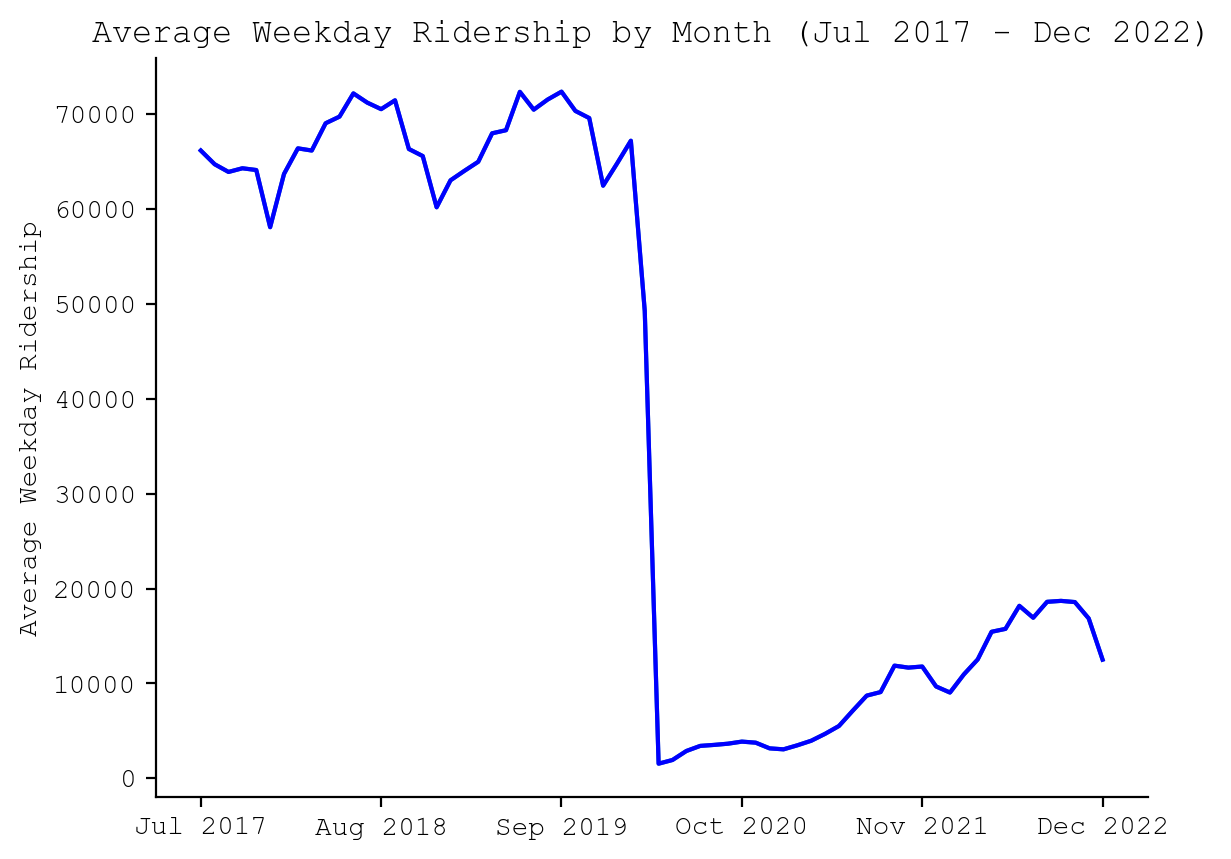
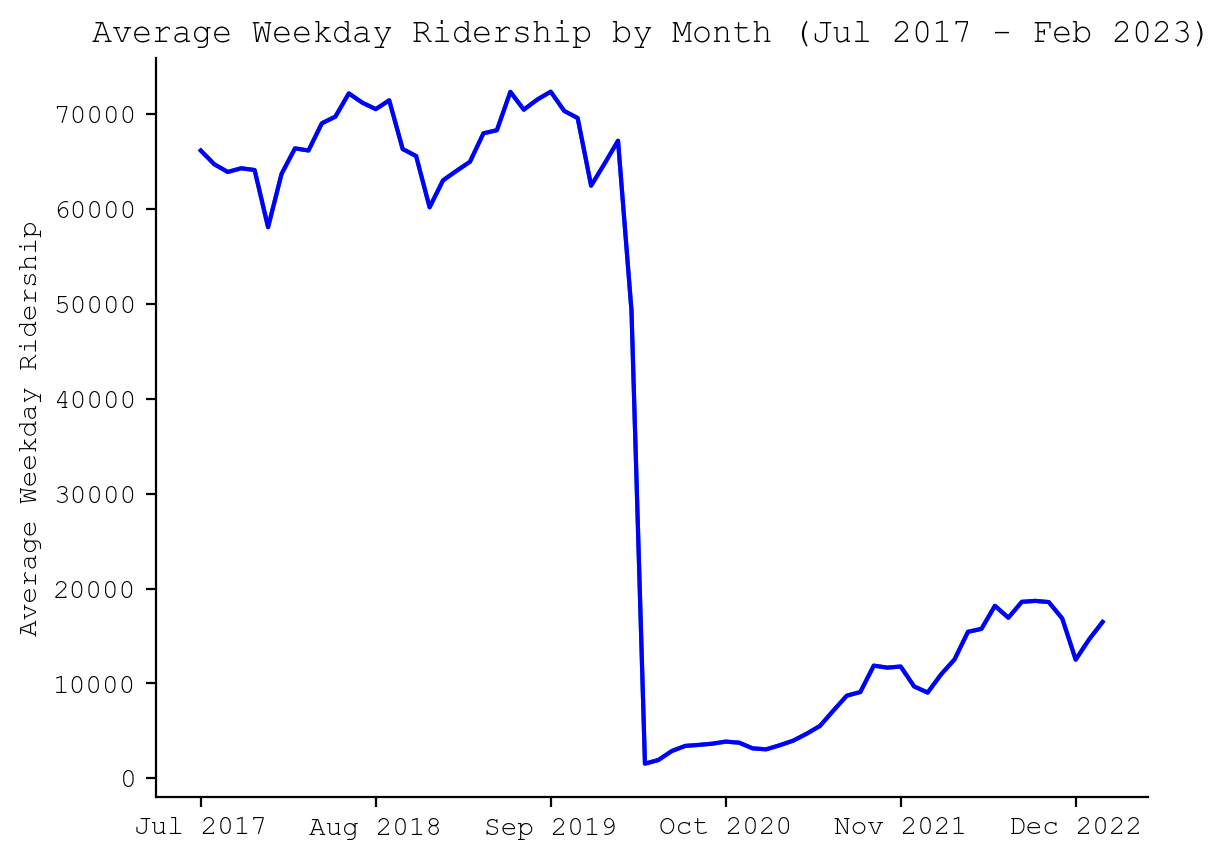
add jan + feb 2023

diff --git a/site/index.html b/site/index.html
@@ -9,10 +9,10 @@
 </head>
 <body>
     <h1>Caltrain Ridership</h1>
-    <p><em>Last updated: 2023-02-21</em></p>    
+    <p><em>Last updated: 2023-04-03</em></p>    
     <p>
-        This site contains graphs and a table of Caltrain's average weekday ridership from Jul 2017 to Dec 2022 sourced from <a href="https://www.caltrain.com/past-board-meetings">Caltrain Board of Directors meeting agendas</a>.
-        Average weekday ridership is reported with a 1-month lag, so the most recent data is from Dec 2022.
+        This site contains graphs and a table of Caltrain's average weekday ridership from Jul 2017 to Feb 2023 sourced from <a href="https://www.caltrain.com/past-board-meetings">Caltrain Board of Directors meeting agendas</a>.
+        Average weekday ridership is reported with a 1-month lag, so the most recent data is from Feb 2023.
     </p>
     <p>
         You can find a <a href="https://github.com/iechevarria/caltrain-ridership/blob/main/ridership.csv">CSV</a> of Caltrain's average weekday ridership and the script to generate this site on <a href="https://github.com/iechevarria/caltrain-ridership">GitHub</a>.
@@ -37,6 +37,14 @@
     <tr>
         <td>Month</td>
         <td>Average weekday ridership</td>
+    </tr>
+    <tr>
+        <td>Feb 2023</td>
+        <td>16489</td>
+    </tr>
+    <tr>
+        <td>Jan 2023</td>
+        <td>14655</td>
     </tr>
     <tr>
         <td>Dec 2022</td>
